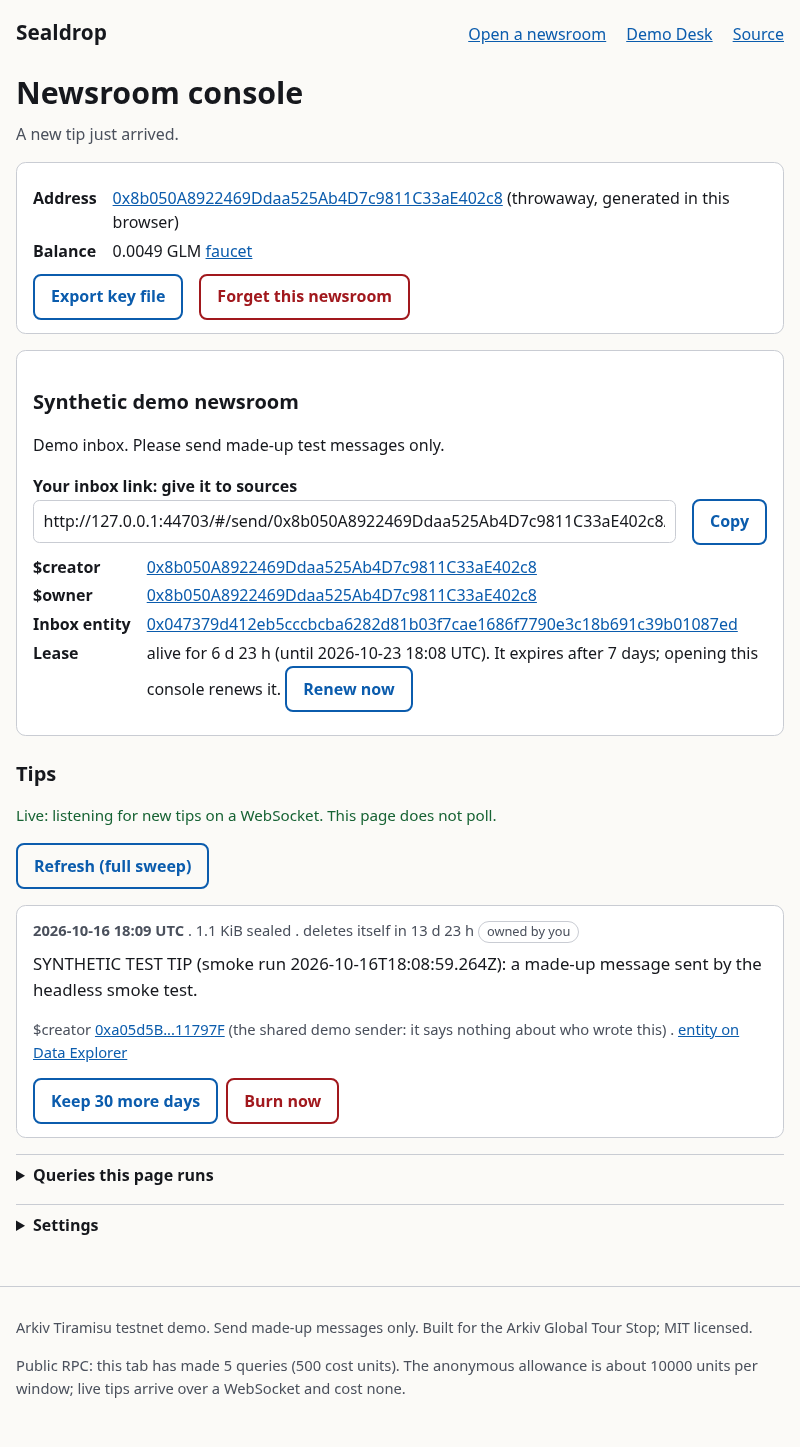
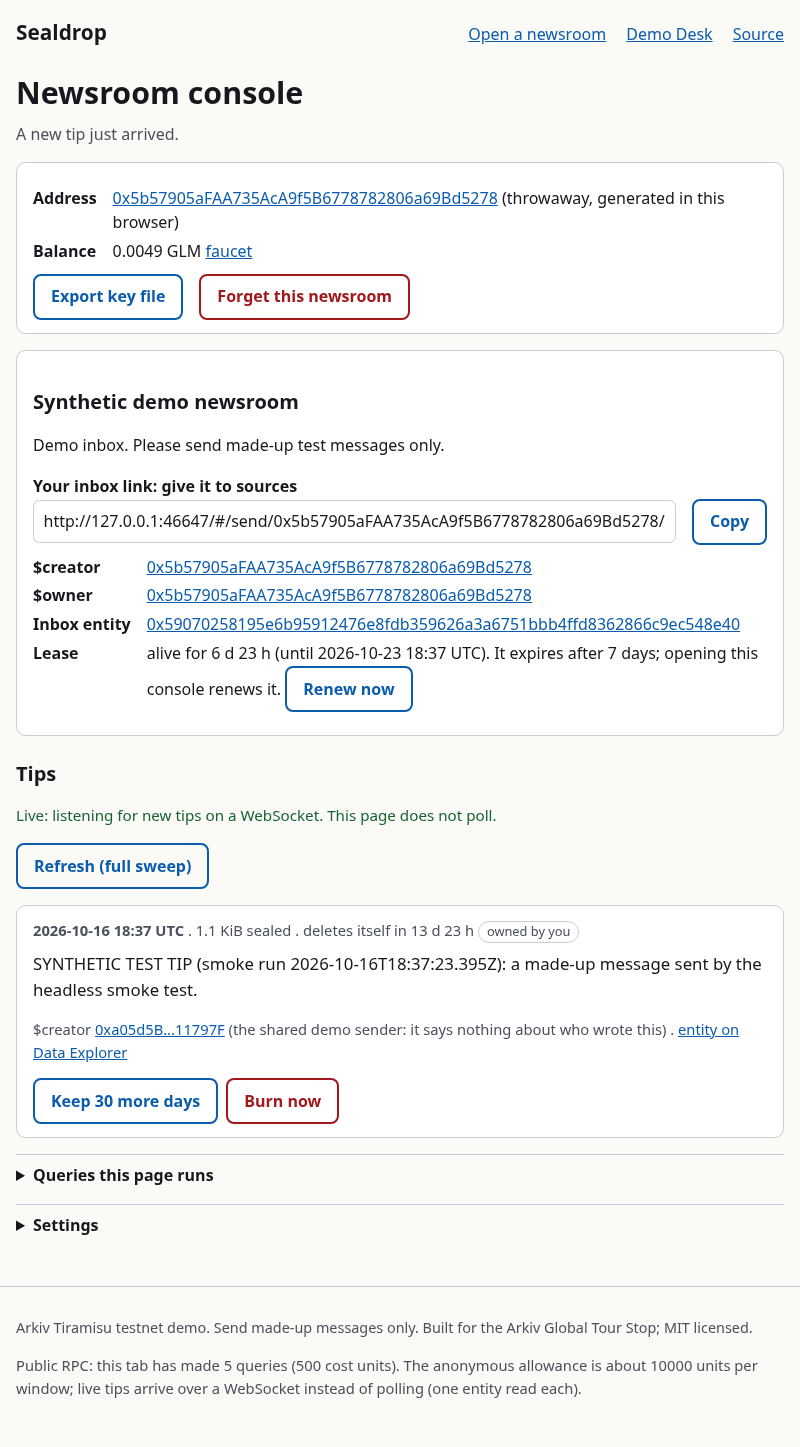
Smoke evidence re-run at the final code, README numbers, F7 second reset observed

diff --git a/arkiv/friction.md b/arkiv/friction.md
@@ -243,12 +243,15 @@ header shows, and a static site can query within that rate.
   ```
 
   (Copied from my terminal at 17:32 UTC. Reproducing it takes the whole budget, so the repro script stops before that.)
-  Queries worked again at about 18:01 UTC, as `Retry-After` had said. No successful response says how much budget is left.
+  Queries worked again at about 18:01 UTC, as `Retry-After` had said. I hit the budget a second time at 18:38 UTC, 37 minutes
+  after that reset, in the last step of an integration run (scripted runs of mine had been using it since the reset); my
+  `failFast` wrapper reported `retry after 1354 s`, which is a reset at about 19:01:24 UTC. The first one was at about 18:01:22,
+  so the window may be an hour long (two data points; not documented). No successful response says how much budget is left.
   `Arkiv-Quota-Used-Percent` is in the `Access-Control-Expose-Headers` list, but I never saw it on an anonymous response.
 * None of the 17 documentation pages I downloaded and searched mentions the anonymous budget, the cost per query, `ANON_COST_LIMITED`,
   `Arkiv-Cost` or `Retry-After`; two cookbook pages say only "Anonymous access to the RPC endpoint is rate limited."
-* I do not know how long the window is or what identifies an anonymous client (I did not test whether it is the IP address),
-  so I cannot say how many visitors a hosted demo supports.
+* I do not know for certain how long the window is (the two resets above suggest an hour) or what identifies an anonymous
+  client (I did not test whether it is the IP address), so I cannot say how many visitors a hosted demo supports.
 
 **The SDK waits.** `client.query()` goes through viem's HTTP transport, which honours `Retry-After` on a 429 and retries
 (default `retryCount` 3). The call therefore does not fail, it sleeps: a script of mine sat silent for about 27 minutes
@@ -293,5 +296,5 @@ These were verified with the same rigour as the problems above, so they count as
 | Documented query limits | `!=` and `exists(...)` fail with a clear JSON-RPC error (-32002, "write NOT (attr = value)" / "the index has no per-attribute presence set in this version"), exactly as the Querying Data pages say the network behaves. |
 | Explorer deep links | `https://tiramisu.explorer.arkiv.network/tx/<hash>`, `/address/<addr>`, `https://data.arkiv.network/entity/<key>` and `/owner/<addr>` all render the object from the hash alone. |
 | WebSocket resilience | viem's `webSocket()` transport reconnects by default (5 attempts, 2 s delay, 30 s keep-alive) and, per viem's source, re-establishes subscriptions after a reconnect (read from the source; I did not drop a connection to test it). |
-| WebSocket push in a browser | `watchEntityEvents` over a WebSocket works from a page in headless Chromium 154: a tip sent from one browser context showed up in the newsroom tab 2.9 s after the Send click (the sender's own page confirmed after 5.4 s), and the app marks it as arrived by push ([`evidence/smoke.txt`](../evidence/smoke.txt)). Browser, Node and the standalone reader all talk to the same public node without a proxy. |
+| WebSocket push in a browser | `watchEntityEvents` over a WebSocket works from a page in headless Chromium 154: a tip sent from one browser context showed up in the newsroom tab 2.8 s after the Send click (the sender's own page confirmed after 5.6 s), and the app marks it as arrived by push ([`evidence/smoke.txt`](../evidence/smoke.txt)). Browser, Node and the standalone reader all talk to the same public node without a proxy. |
 | Injected wallet | The SDK's wallet client works with an EIP-1193 provider on `window.ethereum`. This was tested with a scripted stand-in (`scripts/wallet-shim.ts`, signs with a Node-held key), not a real browser extension: the tip was created with the provider's address as `$creator`. |

diff --git a/README.md b/README.md
@@ -49,8 +49,8 @@ of this repository or the build. Open the entity link on the Data Explorer to se
 three attributes.
 
 Measured on 2026-10-16 by a headless Chromium run against the built site and the live testnet ([evidence/smoke.txt](evidence/smoke.txt)):
-creating the newsroom takes under a second (no network), creating the inbox 14.5 s (two transactions and the first look-up),
-and the decrypted tip appeared in the newsroom tab 2.9 s after Send was clicked. The whole path took 19.1 s.
+creating the newsroom takes under a second (no network), creating the inbox 14.4 s (two transactions and the first look-up),
+and the decrypted tip appeared in the newsroom tab 2.8 s after Send was clicked. The whole path took 19.0 s.
 
 ## What is on Arkiv, and what is not
 
